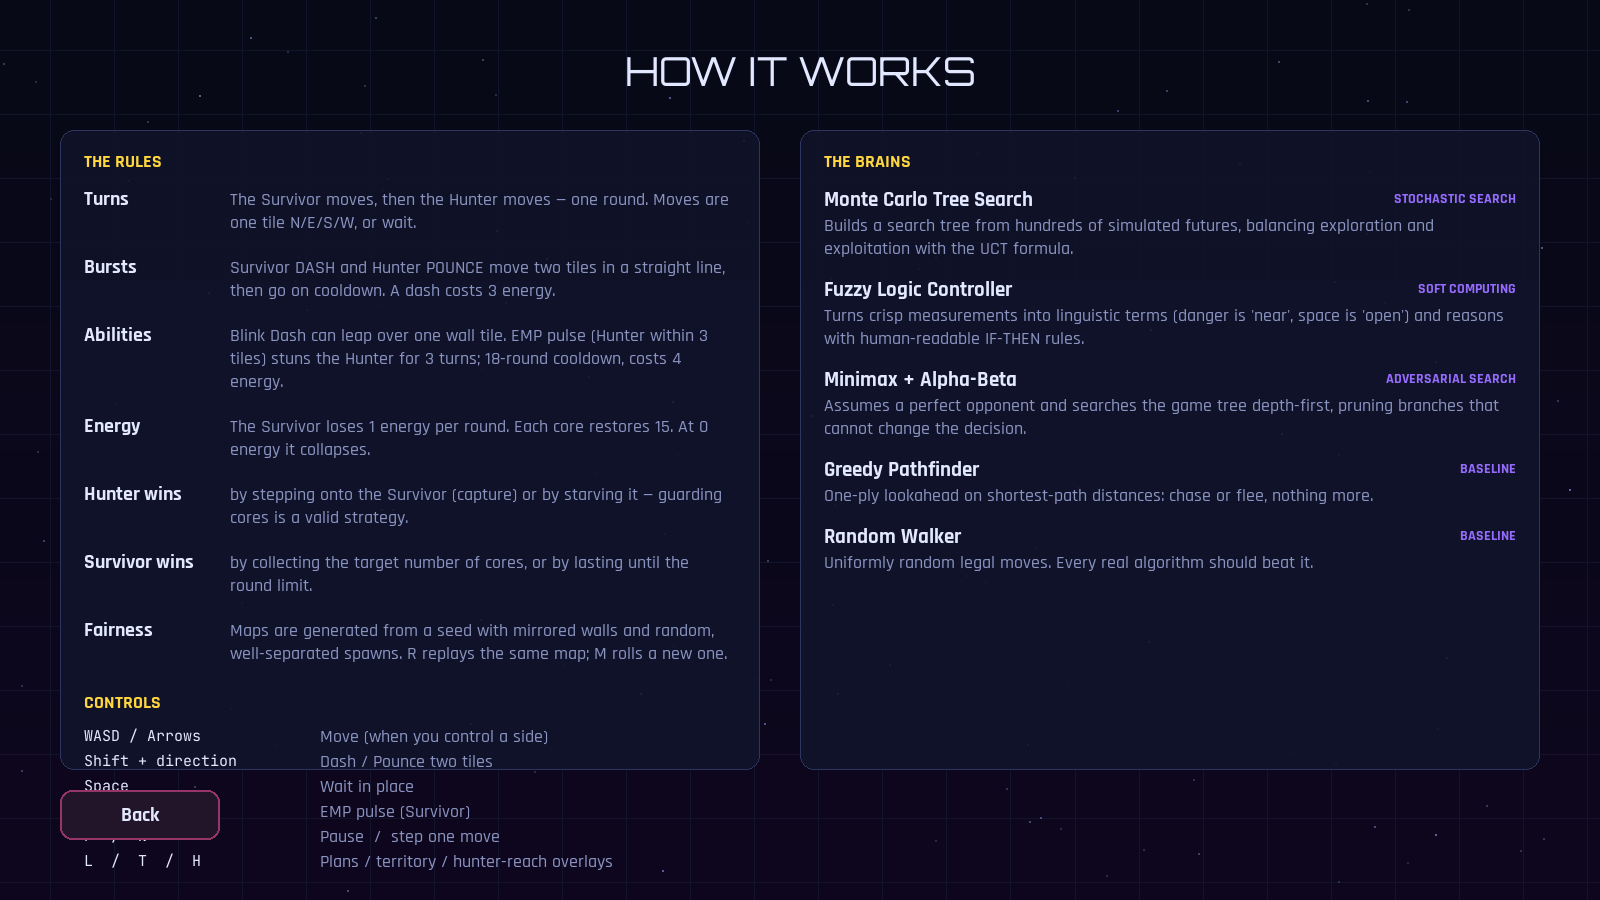
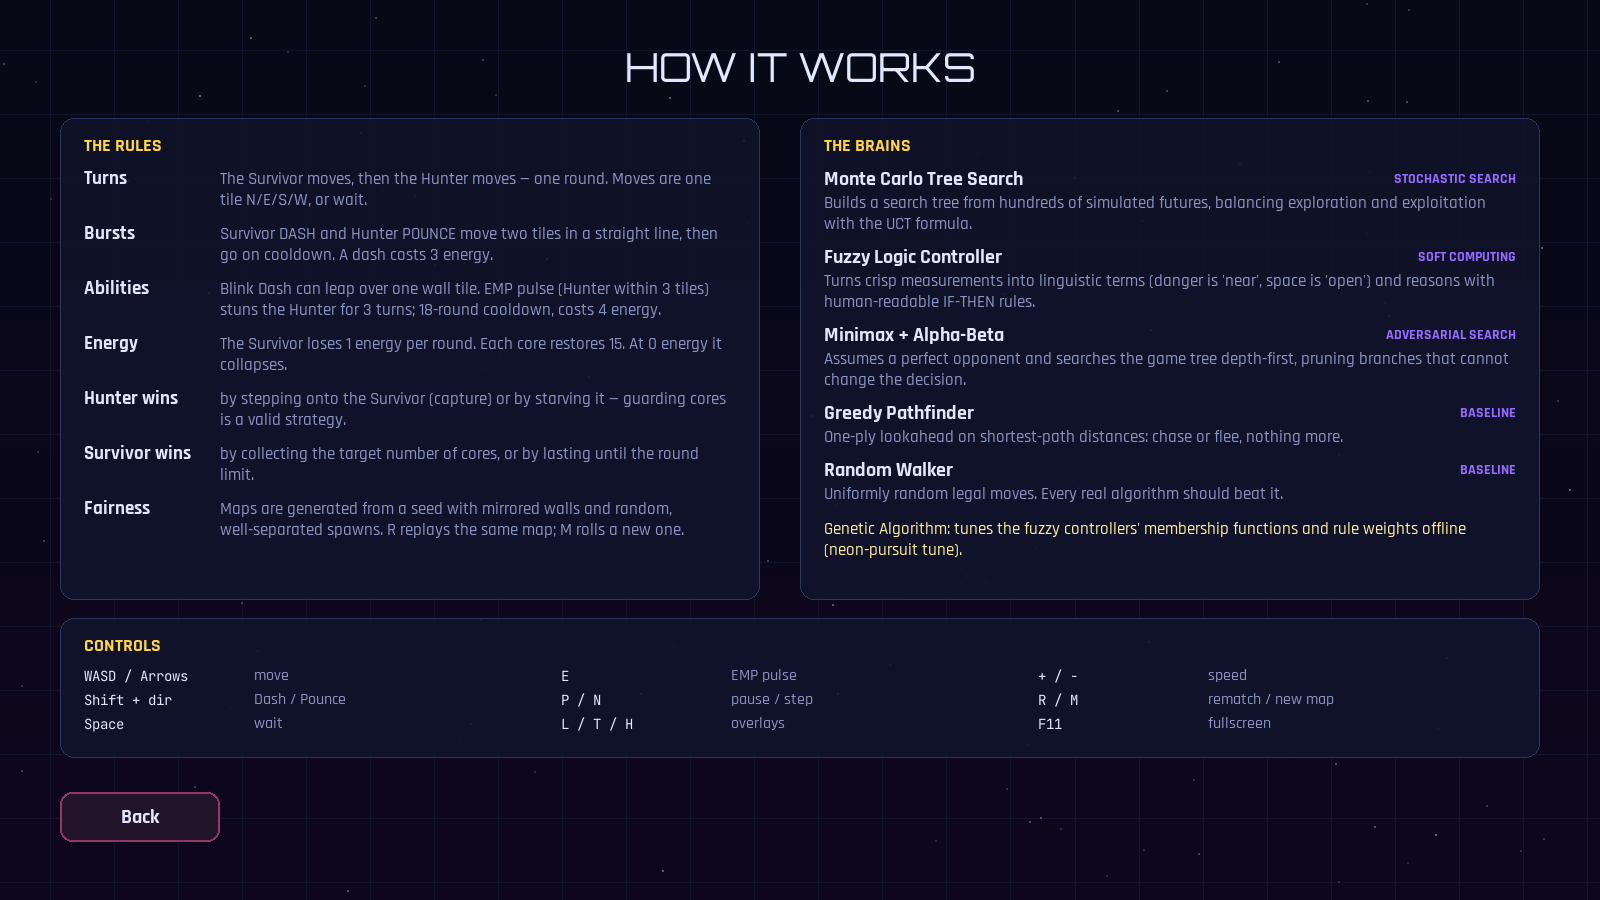
fix(ui): redesign How It Works page so content no longer overlaps
Rules and algorithm panels get tighter spacing, controls move to a
full-width strip, and the Genetic Algorithm is mentioned. Each section
records its content height and a UI test asserts nothing overflows.

diff --git a/src/neon_pursuit/game/scenes/howto.py b/src/neon_pursuit/game/scenes/howto.py
@@ -51,13 +51,26 @@ RULES = [
 ]
 
 CONTROLS = [
-    ("WASD / Arrows", "Move (when you control a side)"),
-    ("Shift + direction", "Dash / Pounce two tiles"),
-    ("Space", "Wait in place"),
-    ("E", "EMP pulse (Survivor)"),
-    ("P  /  N", "Pause  /  step one move"),
-    ("L  /  T  /  H", "Plans / territory / hunter-reach overlays"),
+    ("WASD / Arrows", "move"),
+    ("Shift + dir", "Dash / Pounce"),
+    ("Space", "wait"),
+    ("E", "EMP pulse"),
+    ("P / N", "pause / step"),
+    ("L / T / H", "overlays"),
+    ("+ / -", "speed"),
+    ("R / M", "rematch / new map"),
+    ("F11", "fullscreen"),
 ]
+
+GA_NOTE = (
+    "Genetic Algorithm: tunes the fuzzy controllers' membership functions and rule "
+    "weights offline (neon-pursuit tune)."
+)
+
+RULES_PANEL = pygame.Rect(60, 118, 700, 482)
+BRAINS_PANEL = pygame.Rect(800, 118, 740, 482)
+CONTROLS_PANEL = pygame.Rect(60, 618, 1480, 140)
+BODY, LINE = 17, 21  # body font size and line height
 
 
 class HowToScene(Scene):
@@ -65,7 +78,7 @@ class HowToScene(Scene):
         super().__init__(app)
         self.widgets.append(
             Button(
-                pygame.Rect(60, 790, 160, 50),
+                pygame.Rect(60, 792, 160, 50),
                 "Back",
                 app.pop,
                 theme.HUNTER,
@@ -73,50 +86,71 @@ class HowToScene(Scene):
                 hotkey=pygame.K_ESCAPE,
             )
         )
+        #: Bottom y reached by each panel's content (checked by tests: no overflow).
+        self.content_bottom: dict[str, int] = {}
 
     def draw_content(self, surface: pygame.Surface) -> None:
-        theme.blit_text(surface, "HOW IT WORKS", (800, 70), "display", 40, theme.TEXT, "center")
-        left = pygame.Rect(60, 130, 700, 640)
-        right = pygame.Rect(800, 130, 740, 640)
-        theme.panel(surface, left)
-        theme.panel(surface, right)
+        theme.blit_text(surface, "HOW IT WORKS", (800, 66), "display", 40, theme.TEXT, "center")
+        for rect in (RULES_PANEL, BRAINS_PANEL, CONTROLS_PANEL):
+            theme.panel(surface, rect)
+        self.content_bottom = {
+            "rules": self._draw_rules(surface, RULES_PANEL),
+            "brains": self._draw_brains(surface, BRAINS_PANEL),
+            "controls": self._draw_controls(surface, CONTROLS_PANEL),
+        }
 
-        theme.blit_text(
-            surface, "THE RULES", (left.left + 24, left.top + 20), "ui_bold", 18, theme.CORE
-        )
-        y = left.top + 56
+    @staticmethod
+    def _heading(surface: pygame.Surface, rect: pygame.Rect, text: str) -> int:
+        theme.blit_text(surface, text, (rect.left + 24, rect.top + 16), "ui_bold", 18, theme.CORE)
+        return rect.top + 48
+
+    def _draw_rules(self, surface: pygame.Surface, rect: pygame.Rect) -> int:
+        y = self._heading(surface, rect, "THE RULES")
+        text_x = rect.left + 160
+        width = rect.right - 24 - text_x
         for title, body in RULES:
-            theme.blit_text(surface, title, (left.left + 24, y), "ui_bold", 20, theme.TEXT)
-            for line in theme.wrap(body, "ui", 18, left.width - 200):
-                theme.blit_text(surface, line, (left.left + 170, y + 2), "ui", 18, theme.TEXT_DIM)
-                y += 23
-            y += 22
+            theme.blit_text(surface, title, (rect.left + 24, y), "ui_bold", 19, theme.TEXT)
+            for line in theme.wrap(body, "ui", BODY, width):
+                theme.blit_text(surface, line, (text_x, y + 2), "ui", BODY, theme.TEXT_DIM)
+                y += LINE
+            y += 13
+        return y
 
-        y += 6
-        theme.blit_text(surface, "CONTROLS", (left.left + 24, y), "ui_bold", 18, theme.CORE)
-        y += 34
-        for keys, what in CONTROLS:
-            theme.blit_text(surface, keys, (left.left + 24, y), "mono", 15, theme.TEXT)
-            theme.blit_text(surface, what, (left.left + 260, y), "ui", 18, theme.TEXT_DIM)
-            y += 25
-
-        theme.blit_text(
-            surface, "THE BRAINS", (right.left + 24, right.top + 20), "ui_bold", 18, theme.CORE
-        )
-        y = right.top + 56
+    def _draw_brains(self, surface: pygame.Surface, rect: pygame.Rect) -> int:
+        y = self._heading(surface, rect, "THE BRAINS")
+        width = rect.width - 48
         for info in ALGORITHMS.values():
-            theme.blit_text(surface, info.name, (right.left + 24, y), "ui_bold", 21, theme.TEXT)
+            theme.blit_text(surface, info.name, (rect.left + 24, y), "ui_bold", 20, theme.TEXT)
             theme.blit_text(
                 surface,
                 info.family.upper(),
-                (right.right - 24, y + 3),
+                (rect.right - 24, y + 3),
                 "ui_bold",
                 14,
                 theme.ACCENT,
                 "topright",
             )
-            y += 28
-            for line in theme.wrap(info.description, "ui", 18, right.width - 48):
-                theme.blit_text(surface, line, (right.left + 24, y), "ui", 18, theme.TEXT_DIM)
-                y += 23
-            y += 16
+            y += 26
+            for line in theme.wrap(info.description, "ui", BODY, width):
+                theme.blit_text(surface, line, (rect.left + 24, y), "ui", BODY, theme.TEXT_DIM)
+                y += LINE
+            y += 10
+        y += 4
+        for line in theme.wrap(GA_NOTE, "ui", BODY, width):
+            theme.blit_text(surface, line, (rect.left + 24, y), "ui", BODY, theme.CORE_SOFT)
+            y += LINE
+        return y
+
+    def _draw_controls(self, surface: pygame.Surface, rect: pygame.Rect) -> int:
+        y0 = self._heading(surface, rect, "CONTROLS")
+        columns, rows = 3, 3
+        col_w = (rect.width - 48) // columns
+        bottom = y0
+        for i, (keys, what) in enumerate(CONTROLS):
+            col, row = divmod(i, rows)
+            x = rect.left + 24 + col * col_w
+            y = y0 + row * 24
+            theme.blit_text(surface, keys, (x, y), "mono", 14, theme.TEXT)
+            theme.blit_text(surface, what, (x + 170, y - 1), "ui", 16, theme.TEXT_DIM)
+            bottom = max(bottom, y + 22)
+        return bottom

diff --git a/tests/test_ui_smoke.py b/tests/test_ui_smoke.py
@@ -97,3 +97,18 @@ def test_static_screens_render(app: App) -> None:
     for scene in (HowToScene(app), BenchmarkScene(app)):
         app.scenes = [scene]
         _run(app, 3)
+
+
+def test_how_it_works_content_fits_its_panels(app: App) -> None:
+    from neon_pursuit.game.scenes import howto
+
+    scene = HowToScene(app)
+    app.scenes = [scene]
+    _run(app, 2)
+    panels = {
+        "rules": howto.RULES_PANEL,
+        "brains": howto.BRAINS_PANEL,
+        "controls": howto.CONTROLS_PANEL,
+    }
+    for name, rect in panels.items():
+        assert scene.content_bottom[name] <= rect.bottom - 8, name
